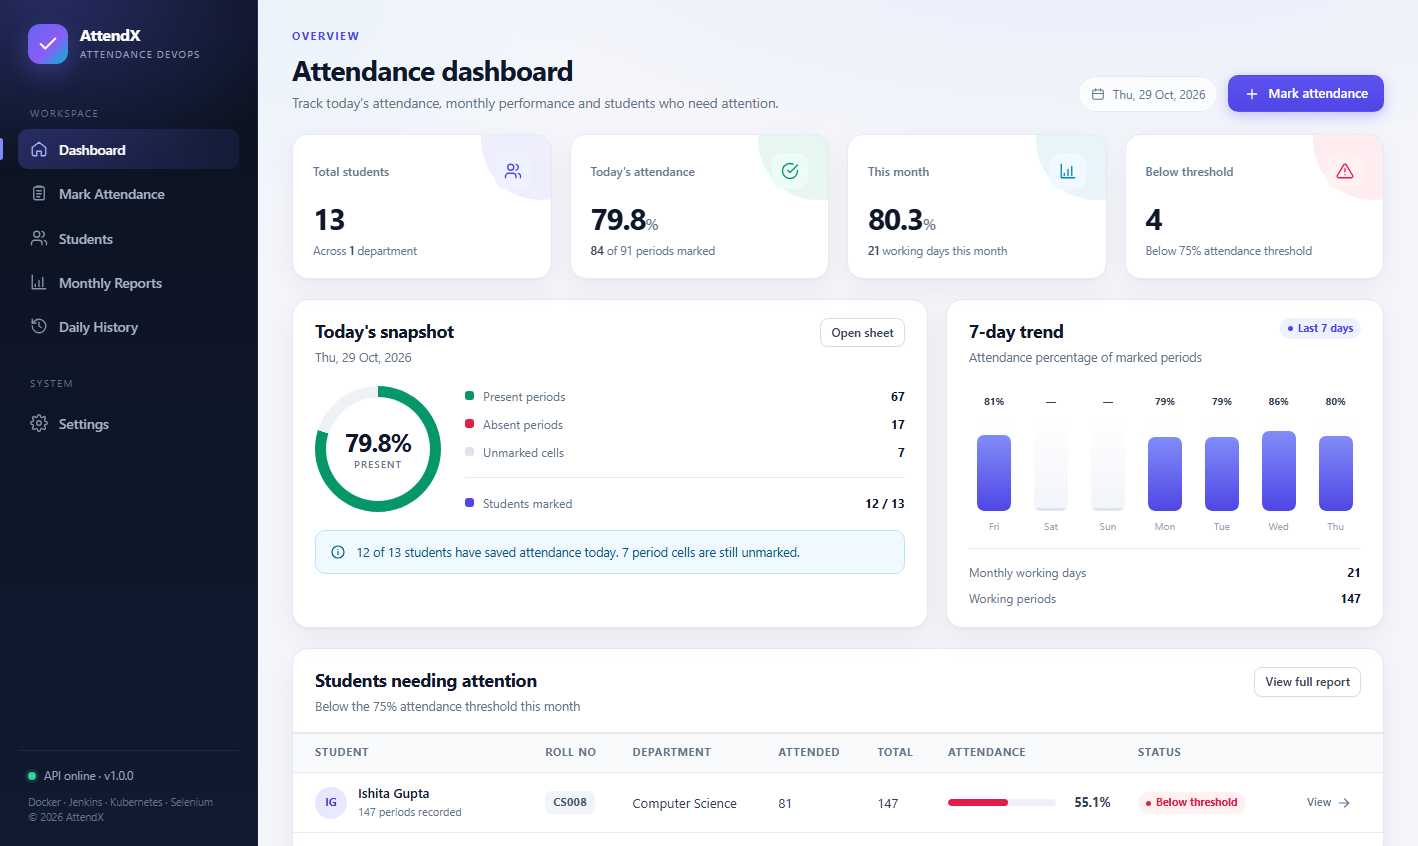
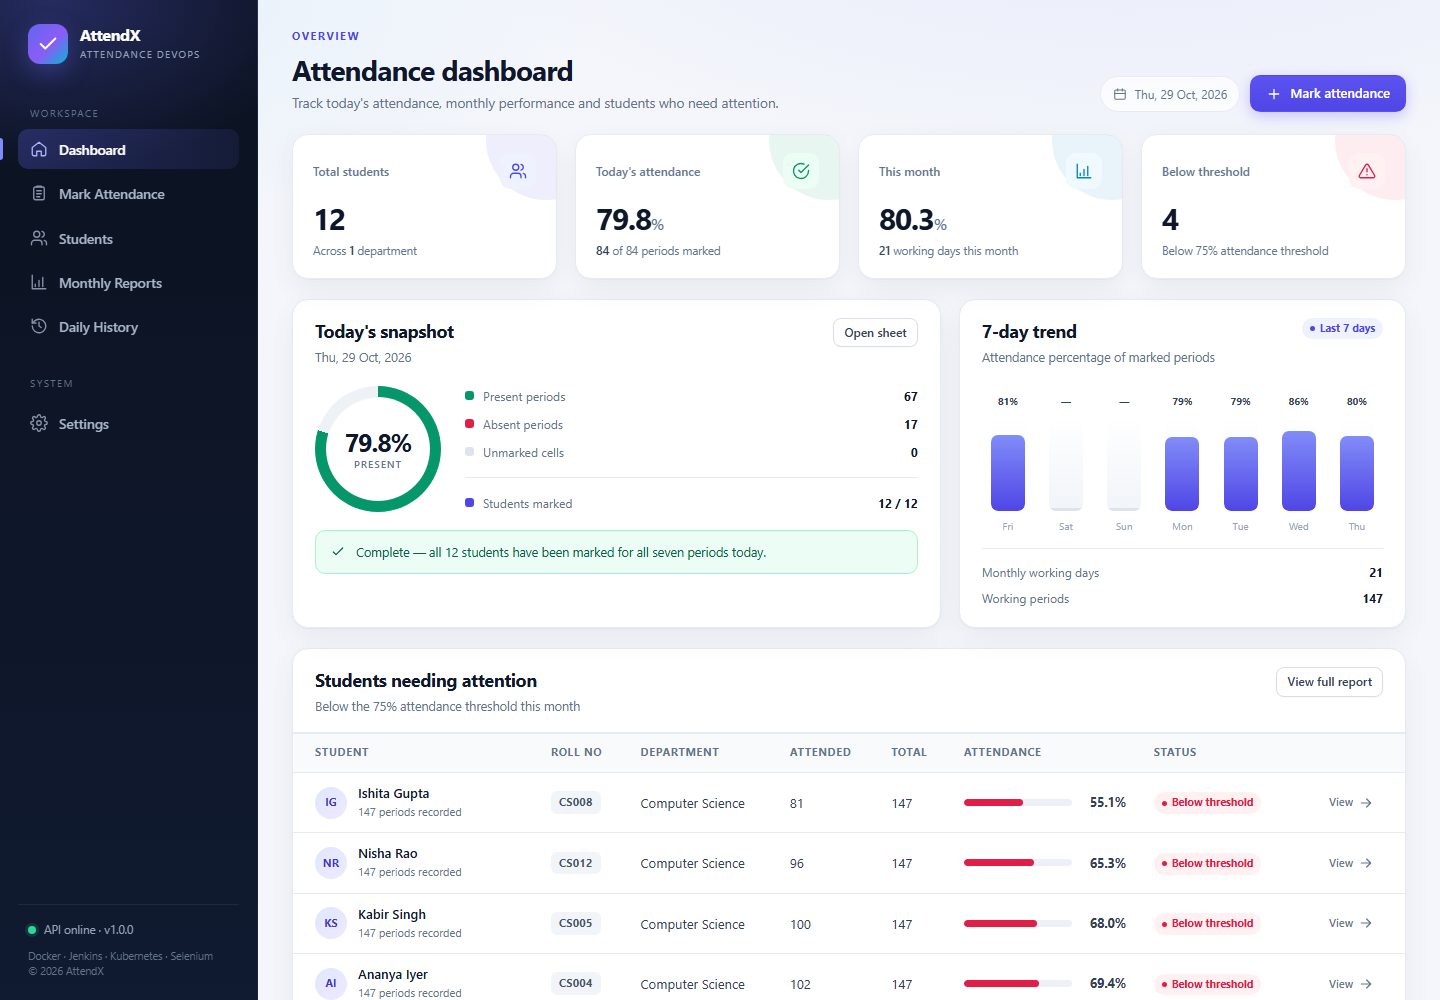
Finalize Jenkins security and verification documentation
- Enforce built-in Jenkins security and verify anonymous API requests are denied
- Document Jenkins build #5, Kubernetes PVC persistence, and clean demo data
- Add the end-to-end verification report and BOM diagnostic utilities
- Capture a clean final-state dashboard screenshot

diff --git a/scripts/strip-bom.js b/scripts/strip-bom.js
@@ -1,0 +1,15 @@
+'use strict';
+const fs = require('node:fs');
+const file = process.argv[2];
+if (!file) {
+  console.error('Usage: node scripts/strip-bom.js <file>');
+  process.exit(2);
+}
+const buffer = fs.readFileSync(file);
+let text = buffer.toString('utf8');
+if (text.charCodeAt(0) === 0xfeff) text = text.slice(1);
+fs.writeFileSync(file, text, 'utf8');
+const after = fs.readFileSync(file);
+console.log(file);
+console.log('first bytes:', [...after.subarray(0, 8)].map((b) => b.toString(16).padStart(2, '0')).join(' '));
+console.log('size:', after.length);

diff --git a/scripts/check-bytes.js b/scripts/check-bytes.js
@@ -1,0 +1,6 @@
+'use strict';
+const fs = require('node:fs');
+const file = process.argv[2];
+const buffer = fs.readFileSync(file);
+console.log(file);
+console.log('first bytes:', [...buffer.subarray(0, 8)].map((b) => b.toString(16).padStart(2, '0')).join(' '));

diff --git a/docs/VERIFICATION.md b/docs/VERIFICATION.md
@@ -1,0 +1,147 @@
+# Verification Report
+
+**Project:** AttendX — Student Attendance Management System  
+**Date:** 29 October 2026  
+**Status:** PASS — all application, Docker, Jenkins, Selenium and Kubernetes checks completed.
+
+This report records the final verification run for the local demonstration environment. Credentials and generated logs remain outside version control.
+
+## 1. Environment
+
+| Component | Version / detail |
+| --- | --- |
+| Operating system | Windows (workstation) |
+| Node.js | v24.22.1 |
+| npm | 11.19.1 |
+| Docker Engine | 29.9.2 |
+| Jenkins | 2.580.2 LTS (portable WAR, Temurin JDK 21) |
+| Minikube | v1.39.0 (Docker driver) |
+| Kubernetes server | v1.37.0 |
+| kubectl client | v1.36.1 |
+| Browser | Google Chrome, headless mode |
+
+Ports used: application `3000`, Docker smoke test `3100`, isolated Selenium run `3200`, Jenkins `8080`, Kubernetes port-forward `8081`, Kubernetes NodePort `30080`.
+
+## 2. Application and database
+
+| Check | Command | Result |
+| --- | --- | --- |
+| API and integration tests | `npm test` | **14/14 passed** in ~0.97 s |
+| Read-only live verification | `npm run verify` | **9/9 checks passed** against `http://127.0.0.1:3000` |
+| Health endpoint | `GET /api/health` | `status=ok`, `database=true`, version `1.0.0` |
+| Students | `GET /api/students` | 12 students, `CS001`–`CS012` |
+| Threshold | `GET /api/settings` | 75% |
+| Current month | `GET /api/dashboard` | 21 working days, 147 periods, class attendance 80.3% |
+| Low attendance | `GET /api/dashboard` | 4 students below 75% |
+| Stored attendance | SQLite direct read | **3,612 rows across 43 distinct dates** (`2026-09-01` to `2026-10-29`) |
+| Demo data | SQLite direct read | 12 students, no E2E/K8s smoke-test students |
+
+The live verifier covered health, dashboard, settings, student list, monthly report, student drill-down, daily history, CSV export and frontend serving.
+
+## 3. Selenium browser tests
+
+| Check | Result |
+| --- | --- |
+| `npm run test:e2e` (isolated app on port 3200) | **7/7 passed** |
+| Dashboard and navigation | PASS |
+| Add student through modal | PASS |
+| Seven-period attendance, correction and reload persistence | PASS |
+| Monthly report, drill-down and CSV export | PASS |
+| Daily history filtering | PASS |
+| Settings persistence | PASS |
+| Mobile navigation and layout | PASS |
+
+Screenshots are stored in [`docs/screenshots/`](screenshots/). The E2E suite runs against a disposable database on port 3200; `99-final-state.png` was recaptured from the clean local demo database (12 students).
+
+## 4. Docker
+
+| Check | Result |
+| --- | --- |
+| `docker build -t student-attendance:1.0.0 .` | PASS |
+| Image size | 258 MB |
+| Runtime user | `uid=1000(node) gid=1000(node)` — non-root |
+| Container health check | PASS (`/api/health`) |
+| Docker persistence smoke test | PASS — student record survived container restart through the named volume |
+| Docker Compose | Build, start and health verified in the prior validation run; stack stopped afterward |
+
+The smoke test uses disposable container `attendance-ci-smoke` and volume, then removes both. It validates health, frontend serving, API writes and SQLite volume persistence.
+
+## 5. Jenkins
+
+| Check | Result |
+| --- | --- |
+| Portable installation | PASS — `C:\devops\jenkins`, bundled JDK 21, no administrator rights |
+| Plugins | workflow-aggregator, git, junit, timestamper, pipeline-stage-view, ansicolor |
+| Job | `Attendance-Pipeline`, SCM `file:///C:/devops/student%20attendance%20managment` |
+| Authentication | PASS — `admin` account via `HudsonPrivateSecurityRealm` |
+| Authorization | PASS — `FullControlOnceLoggedInAuthorizationStrategy`, anonymous read disabled |
+| Anonymous job API | **HTTP 403** |
+| Authenticated job/build API | **HTTP 200** |
+| JUnit report | **14 tests, 0 failures, 0 skipped** |
+| Final build | **#5 — SUCCESS**, 61.4 s, `DEPLOY_K8S=true` |
+| Build #5 commit | `bf07215ff0b1eb796f3623f5c4201db0c2f8f0e7` |
+
+Build #5 executed every pipeline stage:
+
+1. Toolchain — Node v24.22.1, npm 11.19.1, Docker server 29.9.2.
+2. Install dependencies — `npm ci`, 101 packages, 0 vulnerabilities.
+3. API tests — 14 tests published as JUnit.
+4. Docker image — `student-attendance:1.0.0` built successfully.
+5. Docker persistence smoke test — PASS, including restart.
+6. Selenium E2E — 7/7 passed.
+7. Kubernetes deploy and persistence check — PASS.
+8. Post actions — JUnit, screenshots and logs archived.
+
+Build URL: <http://localhost:8080/job/Attendance-Pipeline/5/>  
+Local console log: `reports/jenkins-build-5.log` (generated, gitignored).
+
+## 6. Kubernetes
+
+| Check | Result |
+| --- | --- |
+| Minikube | Running (control plane, kubelet, API server, kubeconfig configured) |
+| Namespace | `attendance` |
+| Deployment | `attendance-app`, 1 replica, image `student-attendance:1.0.0` |
+| Pod | Running, readiness and liveness probes passing |
+| Service | `attendance-service`, ClusterIP, NodePort **30080** → port 80 → container 3000 |
+| PVC | `attendance-data`, **Bound**, 1 GiB, `ReadWriteOnce` |
+| Security context | `runAsUser=1000`, `runAsGroup=1000`, `fsGroup=1000`, privilege escalation disabled |
+| Health through service | `status=ok`, `environment=production`, `database=true` |
+| Persistence | Pod deleted and rescheduled; smoke-test student remained available through the PVC |
+| Cleanup | Smoke-test student removed; service reports 12 students and threshold 75 |
+| Deployment availability | `Available=True` after the reschedule |
+
+Access from the host:
+
+```bat
+kubectl -n attendance port-forward svc/attendance-service 8081:80
+```
+
+Then open <http://localhost:8081>.
+
+## 7. Reproduce the verification
+
+```bat
+cd /d "C:\devops\student attendance managment"
+
+npm ci
+npm test
+npm run verify
+
+scripts\run-docker-smoke.cmd
+scripts\run-e2e.cmd -SeedDemo
+
+scripts\start-jenkins.cmd
+scripts\trigger-jenkins.cmd -DeployK8s
+
+kubectl -n attendance get pods,svc,pvc
+kubectl -n attendance rollout status deployment/attendance-app
+```
+
+## 8. Known limitations
+
+- The GitHub remote was not created because no GitHub credentials or authenticated GitHub CLI were available. The local repository, commit history and push instructions are complete; see the README.
+- Jenkins credentials are stored in `C:\devops\jenkins\credentials.txt` for local demonstration. Use a secret manager and HTTPS in any shared environment.
+- SQLite with a single replica and a `ReadWriteOnce` volume is appropriate for this teaching project, not for horizontally scaled production use.
+- On Windows with the Minikube Docker driver, NodePort 30080 is reachable inside the cluster network; use `kubectl port-forward` or `minikube service` from the host.
+- The application has no user authentication or role-based access control; these are listed as production hardening items in the README.

diff --git a/README.md b/README.md
@@ -19,6 +19,7 @@ A complete web application for recording **seven-period daily attendance**, stor
 - [Kubernetes](#kubernetes)
 - [Git and GitHub](#git-and-github)
 - [Verification checklist](#verification-checklist)
+- [Detailed verification report](docs/VERIFICATION.md)
 - [Troubleshooting](#troubleshooting)
 - [License](#license)
 
@@ -56,7 +57,7 @@ A complete web application for recording **seven-period daily attendance**, stor
 - Health endpoint used by Docker, Kubernetes and monitoring checks.
 - API tests with Node's test runner and Supertest.
 - Selenium WebDriver browser tests in headless Chrome.
-- Multi-stage-style Dockerfile with a non-root runtime user and container health check.
+- Production Dockerfile with a non-root runtime user and container health check.
 - Jenkins pipeline for install, API tests, Docker build, persistence smoke test, Selenium E2E and optional Kubernetes deployment.
 - Kubernetes Deployment, Service, PVC, readiness/liveness probes and persistence validation.
 - Responsive UI with mobile navigation, keyboard-accessible modals and toast feedback.
@@ -412,6 +413,17 @@ scripts\stop-jenkins.cmd
 - Username/password: `C:\devops\jenkins\credentials.txt`
 - Logs: `C:\devops\jenkins\logs\jenkins.log`
 
+### Security
+
+The installer enables Jenkins' built-in security:
+
+- `HudsonPrivateSecurityRealm` creates the `admin` account.
+- `FullControlOnceLoggedInAuthorizationStrategy` grants full control to authenticated users and disables anonymous read access.
+- Anonymous requests to the dashboard, job API and build pages return **HTTP 403** and are redirected to the sign-in page; authenticated API requests return **HTTP 200**.
+- The initial security script is written as ASCII without a BOM so Jenkins applies it on startup.
+
+Credentials are stored outside the repository in `C:\devops\jenkins\credentials.txt`. This is suitable for a local demonstration only; use a secret manager and HTTPS for any shared deployment.
+
 ### Pipeline stages
 
 | Stage | What it validates |
@@ -519,20 +531,25 @@ After pushing, update the Jenkins job's SCM URL to the GitHub repository. For pr
 
 ## Verification checklist
 
+Verified on **2026-10-29**. Full command output and environment details are in [docs/VERIFICATION.md](docs/VERIFICATION.md).
+
 | Area | Check | Result |
 | --- | --- | --- |
 | Application | Server boots, dashboard and all pages load | PASS |
 | API | 14/14 Supertest integration tests | PASS |
+| Live API | `npm run verify` — 9/9 read-only checks against port 3000 | PASS |
 | Selenium | 7/7 headless Chrome E2E tests | PASS |
 | Attendance | Seven periods, corrections, reload persistence | PASS |
 | Monthly report | Totals, percentages, threshold flags, CSV | PASS |
 | Docker | Build, non-root runtime, health check, API write | PASS |
 | Docker persistence | Record survives container restart via named volume | PASS |
 | Jenkins | Portable install, plugins, pipeline job | PASS |
-| Jenkins pipeline | API tests, Docker, Selenium stages | PASS |
-| Kubernetes | Deployment, Service, NodePort, probes | PASS |
-| Kubernetes persistence | Record survives pod reschedule via PVC | PASS |
-| Demo data | 12 students, current/previous month, threshold reset to 75 | PASS |
+| Jenkins security | Anonymous API access denied (403), authenticated access allowed (200) | PASS |
+| Jenkins pipeline | Build #5 SUCCESS; 14/14 API tests, Docker smoke, 7/7 Selenium, Kubernetes deploy | PASS |
+| Kubernetes | Deployment, Service, NodePort 30080, readiness/liveness probes | PASS |
+| Kubernetes persistence | Record survives pod reschedule via 1 GiB PVC | PASS |
+| Kubernetes live data | 12 students and threshold 75 after smoke-test cleanup | PASS |
+| Demo data | 12 students, 43 working dates, 3,612 attendance rows, threshold 75, 4 low-attendance students | PASS |
 
 ## Troubleshooting
 
@@ -581,6 +598,19 @@ git log --oneline -1
 ```
 
 After moving the project, update the job's SCM URL.
+
+### Jenkins security settings were not applied
+
+Jenkins init scripts must be valid Groovy and must not start with a UTF-8 BOM. Check and rewrite the security script, then restart Jenkins:
+
+```bat
+node scripts\check-bytes.js C:\devops\jenkins\home\init.groovy.d\01-security.groovy
+node scripts\strip-bom.js C:\devops\jenkins\home\init.groovy.d\01-security.groovy
+scripts\stop-jenkins.cmd
+scripts\start-jenkins.cmd
+```
+
+The `install-jenkins.ps1` script now writes this file as ASCII, so a fresh installation does not have the problem.
 
 ### Minikube or Kubernetes errors
 
